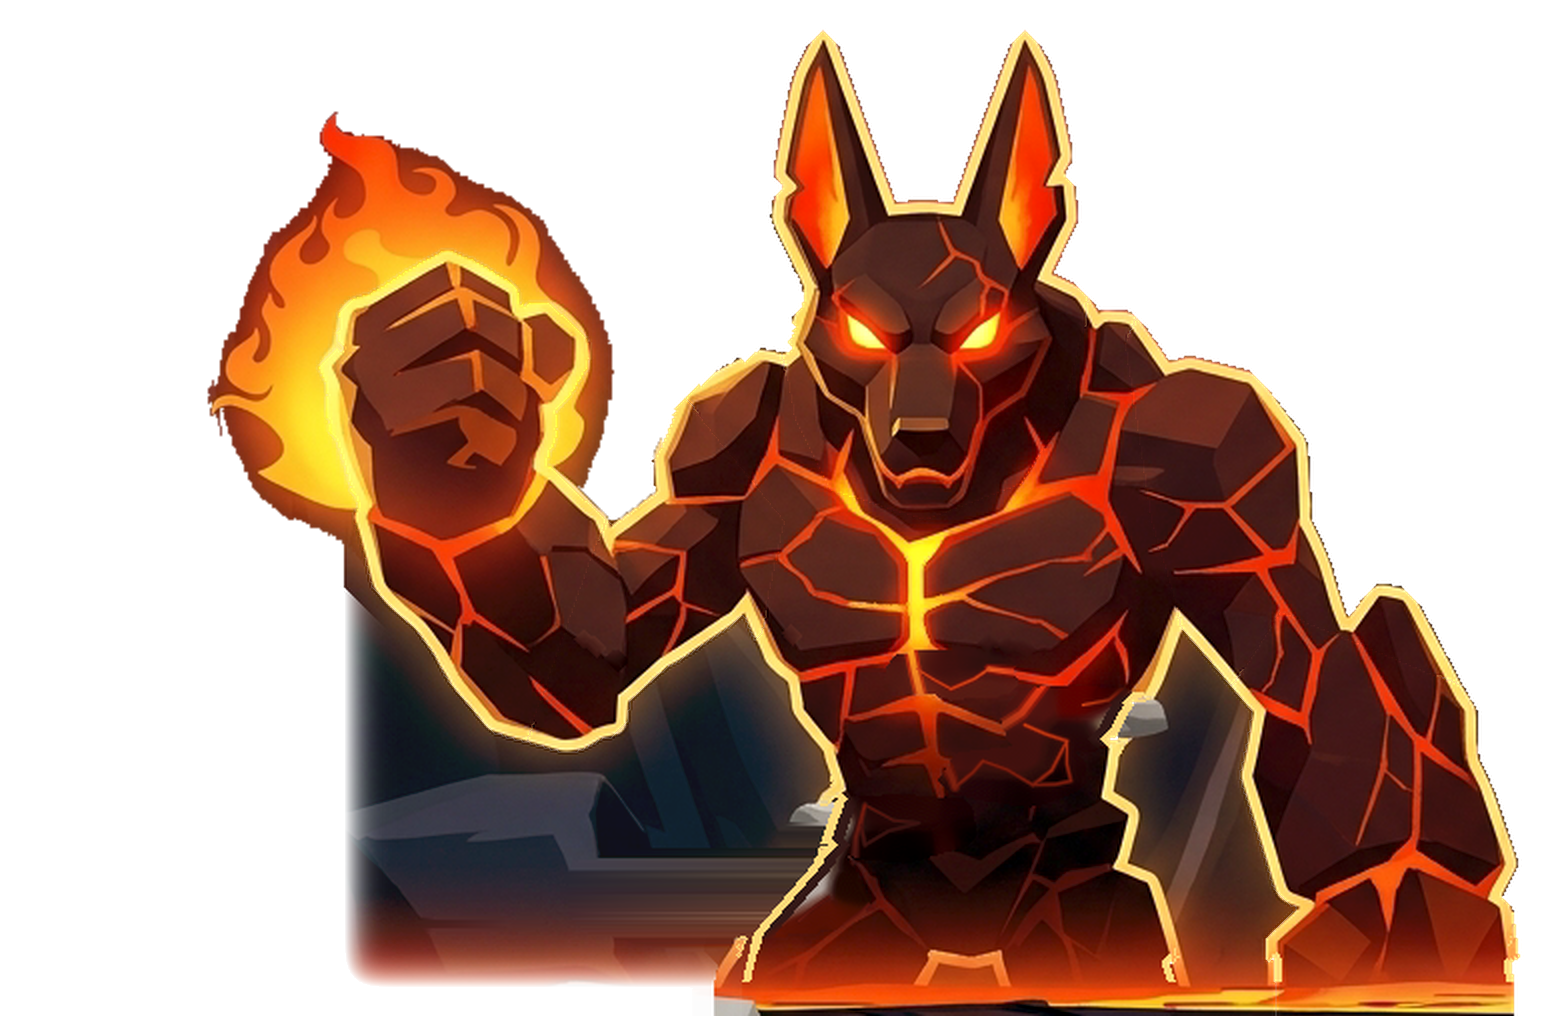
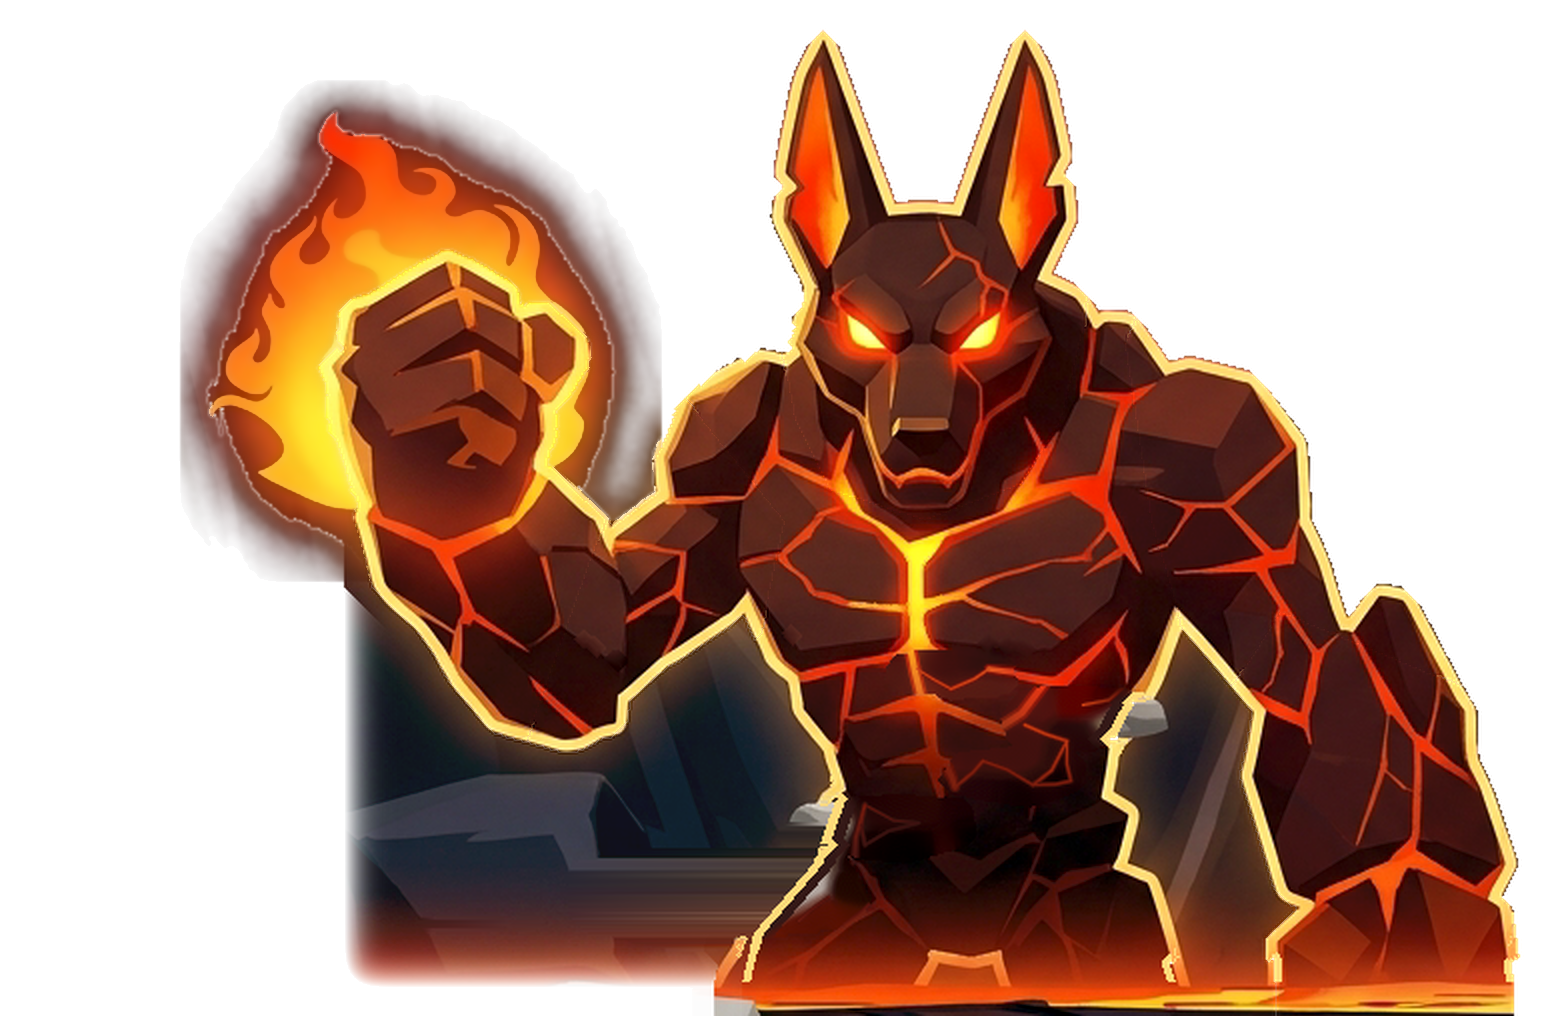
builder: fist fire — smooth flame, TARGET's glow round it, no streak or dark rim
Not passed yet (grader FAIL, closer, no penalties).

Claude-Session: https://claude.ai/code/session_0154g5Bjcu6QPNTNRhyoZf7H

Changed region(s): [[0.0923, 0.061, 0.4308, 0.5797]]

diff --git a/tools/backdrop_cut.py b/tools/backdrop_cut.py
@@ -66,6 +66,103 @@ GAUGE_SHADE = (9.0, 12.0, 20.0)  # the right cliff's shadow tone, sampled
 HUD = [(424, 16, 532, 50), (10, 14, 418, 96), (862, 22, 998, 54)]   # the last two are mirrored over after
 
 
+# Round the raised fist (builder 2026-10-09, "Fist fire"): the figure fill and
+# the boss-bar rect were inpainted from TARGET's flame glow and showed as a
+# dark red blob with a streak rising above the flame's tip. Rebuilt as
+# TARGET's cool slate (the warm pixels kept out of the inpaint's source) plus
+# the flame's own glow, a blur of its alpha fitted to TARGET's ring round it.
+FIST_REBUILD = True
+FIST_AREA = (40, 14, 440, 360)     # TARGET px (x0, y0, x1, y1)
+FIST_RING = (6, 60)
+FIST_GLOW = 0.5                    # of the measured median lift (full read as a red band left of the flame)
+FIST_RATIO = False                 # local glow strength: made a cool band left of the flame
+FIST_RATIO_SIG = 10.0              # TARGET px the glow's local strength is spread over
+FIST_EDGE_SIG = 3.0                # TARGET px of the carried-in edge
+BAR_BOTTOM = 50                    # TARGET row: the boss bar panel's last + 1                # TARGET px outside the flame the fit reads
+
+
+def fist_backdrop(out, img, fig, wide, fire_a, m):
+    x0, y0, x1, y1 = FIST_AREA
+    H, W = out.shape[:2]
+    area = np.zeros((H, W), bool)
+    area[y0:y1, x0:x1] = True
+    flame = (fire_a > 0.5) & ~m
+    # what to replace: the figure fill and the HUD rects inside the area,
+    # never the figure (it draws over) beyond what the fill already took
+    hud = np.zeros((H, W), bool)
+    for (hx0, hy0, hx1, hy1) in HUD:
+        hud[hy0:hy1, hx0:hx1] = True
+    # Only what TARGET hides behind the figure and the flame: round them,
+    # TARGET's own glow pixels are the best backdrop there is.
+    repl = area & wide
+    # cool slate: warm pixels near the flame kept out of the source
+    r, g, b = img[..., 0], img[..., 1], img[..., 2]
+    warm = ((r - b) > 25) | ((r > 120) & (r > b + 10))
+    near = ndi.binary_dilation(flame | m, iterations=90) & area
+    src_mask = repl | (warm & near) | hud
+    src_mask &= area
+    bgr = np.ascontiguousarray(np.clip(img[..., ::-1], 0, 255).astype(np.uint8))
+    # whatever lies outside the area stays as source
+    cool = cv2.inpaint(bgr, src_mask.astype(np.uint8) * 255, 11, cv2.INPAINT_TELEA)[..., ::-1].astype(float)
+    # The boss-bar rect: TARGET's cliffs there are vertical slabs and its sky
+    # is smooth, so the cool picture just below is mirrored up over it.
+    for (hx0, hy0, hx1, hy1) in HUD[1:2]:
+        hx0, hx1 = max(hx0, x0), min(hx1, x1)
+        h = hy1 - hy0
+        cool[hy0:hy1, hx0:hx1] = cool[hy1:hy1 + h, hx0:hx1][::-1]
+    # the glow: TARGET's own warm lift over the cool slate, by distance
+    # from the flame (the median of each 2 px ring), so no rim overshoots
+    d = ndi.distance_transform_edt(~flame)
+    ring = area & ~m & ~hud & ~ndi.binary_dilation(m, iterations=6) & (d > 0) & (d < FIST_RING[1])
+    lift = img - cool
+    edges = np.arange(0, FIST_RING[1] + 2, 2.0)
+    prof = np.zeros((len(edges), 3))
+    for i, e in enumerate(edges):
+        k = ring & (d >= e) & (d < e + 2)
+        if k.sum() > 20:
+            prof[i] = np.clip(np.median(lift[k], axis=0), 0, None)
+    prof[-1] = 0
+    print("fist glow profile", np.round(prof[::5], 1).tolist())
+    glow = FIST_GLOW * np.dstack([np.interp(d, edges + 1, prof[:, c]) for c in range(3)])
+    # TARGET's glow is not even all round: bright yellow under the fist,
+    # dark between the left lobes. Each place takes the ratio of TARGET's
+    # own lift to the profile, read off the visible ring near it.
+    pl = glow.sum(2)
+    have = ring & (pl > 6)
+    ratio = np.where(have, lift.sum(2) / np.maximum(pl, 1e-3), 0)
+    ratio = np.clip(ratio, 0, 3)
+    num = ndi.gaussian_filter(ratio * have, FIST_RATIO_SIG)
+    den = ndi.gaussian_filter(have.astype(float), FIST_RATIO_SIG)
+    r = np.where(den > 1e-3, num / np.maximum(den, 1e-3), 1.0)
+    if FIST_RATIO:
+        glow = glow * r[..., None]
+    new = np.clip(cool + glow, 0, 255)
+    # Right at the edge of what is hidden, TARGET's own pixels carried in
+    # (a normalized blur of the visible ring), so the fill meets TARGET's
+    # glow at its own tone and no seam rings the flame.
+    valid = (area & ~repl).astype(float)
+    den = ndi.gaussian_filter(valid, FIST_EDGE_SIG)
+    ext = np.dstack([ndi.gaussian_filter(img[..., c] * valid, FIST_EDGE_SIG) for c in range(3)]) / np.maximum(den, 1e-4)[..., None]
+    w = np.clip(den / 0.25, 0, 1)[..., None]
+    new = new * (1 - w) + ext * w
+    # feathered into TARGET's own pixels at the edge of what is replaced,
+    # so no seam rings the flame
+    wt = np.clip(ndi.distance_transform_edt(repl) / 4.0, 0, 1)[..., None]
+    o = out * (1 - wt) + new * wt
+    # TARGET's boss bar panel ends at row 50: below it (to the HUD rect's
+    # 96) is TARGET's own scene, kept; the panel rows are that scene
+    # mirrored up (vertical slabs and smooth sky mirror cleanly).
+    bx0, by0, bx1, by1 = HUD[1]
+    bx0, bx1 = max(bx0, x0), min(bx1, x1)
+    by1 += GROW   # the HUD cut-out was grown by GROW rows too
+    keep = ~(m | ndi.binary_dilation(flame, iterations=3))[BAR_BOTTOM:by1, bx0:bx1]
+    blk = o[BAR_BOTTOM:by1, bx0:bx1]
+    blk[keep] = img[BAR_BOTTOM:by1, bx0:bx1][keep]
+    h = BAR_BOTTOM - by0
+    o[by0:BAR_BOTTOM, bx0:bx1] = o[BAR_BOTTOM:BAR_BOTTOM + h, bx0:bx1][::-1]
+    return o
+
+
 def build():
     T = np.asarray(Image.open(rig.TARGET).convert("RGB")).astype(float)
     m, line, walls = rig.silhouette(T)
@@ -149,6 +246,8 @@ def build():
             src[:, x0:x1] = clean[y0:y1, x0 - w:x0][:, ::-1]
         out[y0:y1, x0:x1] = src[:, x0:x1]
         clean[y0:y1, x0:x1] = src[:, x0:x1]
+    if FIST_REBUILD:
+        out = fist_backdrop(out, img.astype(float), fig, wide, fire_a[:rows], m[:rows])
     lo, hi = SIDE_BORDER
     out[:, :lo] = out[:, lo:lo + 1]
     out[:, hi:] = out[:, hi - 1:hi]

diff --git a/tools/beast_rig.py b/tools/beast_rig.py
@@ -136,7 +136,14 @@ FIRE_LEAN = 0.32
 # edge pushed it into a tall pale plume off the fist; TARGET's is a compact
 # orange-yellow blaze curling round the top and back of the fist.
 FIRE_RAW = True
-FIRE_HAZE = 0.0        # 0.92 until the backdrop (tools/backdrop_cut.py) carried TARGET's glow itself
+# Edge-keeping smooth of the flame's colours (see build()).
+FIRE_SMOOTH = True
+FIRE_SMOOTH_D = 11
+FIRE_SMOOTH_SC = 40.0
+FIRE_SMOOTH_SS = 5.0
+FIRE_SHELL_PX = 0.0       # canvas px (2x TARGET) of the flame's outer shell
+FIRE_SHELL_R = (110.0, 165.0)   # red: fully faded .. fully kept
+FIRE_HAZE = 0.92        # 0.92 until the backdrop (tools/backdrop_cut.py) carried TARGET's glow itself
 FIRE_HAZE_PX = 55.0    # TARGET px it fades over
 FIRE_MAX_A = 1.0       # 0.95 (under halo_from, no halo) tried 2026-10-09: no visible change, error up
 FIRE_HUG = 22
@@ -834,6 +841,37 @@ def build():
             else:
                 rgb, a = sink(rgb), sink(a)
         layers[name] = tone_fix(upscale(rgb, a))
+        if name == "fire" and FIRE_SMOOTH:
+            # TARGET's flame carries a fine grain that the fight's colour
+            # path (the LUT inverting ACES's shoulder) blows up ~4x in the
+            # bright yellows: the game's flame read as sparkly noise
+            # (builder, 2026-10-09 run 9). An edge-keeping smooth inside the
+            # flame takes the grain out and keeps the tongues' edges.
+            L = layers[name]
+            sm = cv2.bilateralFilter(L[..., :3].astype(np.float32), FIRE_SMOOTH_D,
+                                     FIRE_SMOOTH_SC, FIRE_SMOOTH_SS).astype(float)
+            L = L.copy()
+            L[..., :3] = np.where((L[..., 3:4] > 0), sm, L[..., :3])
+            # The flame's soft edge carried TARGET's dark glow colour, a dark
+            # rim round every tongue over the fight's backdrop: each edge
+            # pixel takes the colour of the nearest solid flame pixel.
+            solid = L[..., 3] >= 250
+            dd, (iy, ix) = ndi.distance_transform_edt(~solid, return_indices=True)
+            edge = (L[..., 3] > 0) & ~solid & (dd <= 3) & (L[..., 3] > 128)
+            L[edge, :3] = L[iy[edge], ix[edge], :3]
+            # The key kept TARGET's dark red glow as an outer shell with a
+            # hard edge; over the backdrop it drew a contour line a few px
+            # out from the tongues. In that shell, the darker the red, the
+            # more it fades into the backdrop (which carries TARGET's glow).
+            out_d = ndi.distance_transform_edt(L[..., 3] > 0)
+            if not FIRE_SHELL_PX:
+                out_d = out_d + 1e9
+            shell = (L[..., 3] > 0) & (out_d < FIRE_SHELL_PX)
+            red = L[..., 0]
+            fade = np.clip((red - FIRE_SHELL_R[0]) / (FIRE_SHELL_R[1] - FIRE_SHELL_R[0]), 0, 1) ** 1.5
+            fade = np.maximum(fade, np.clip(out_d / max(FIRE_SHELL_PX, 1e-3), 0, 1) ** 2)
+            L[..., 3] = np.where(shell, L[..., 3] * fade, L[..., 3])
+            layers[name] = L
 
     # The rest frame: every layer over the last, as the rig draws it.
     H, W = layers["torso"].shape[:2]
